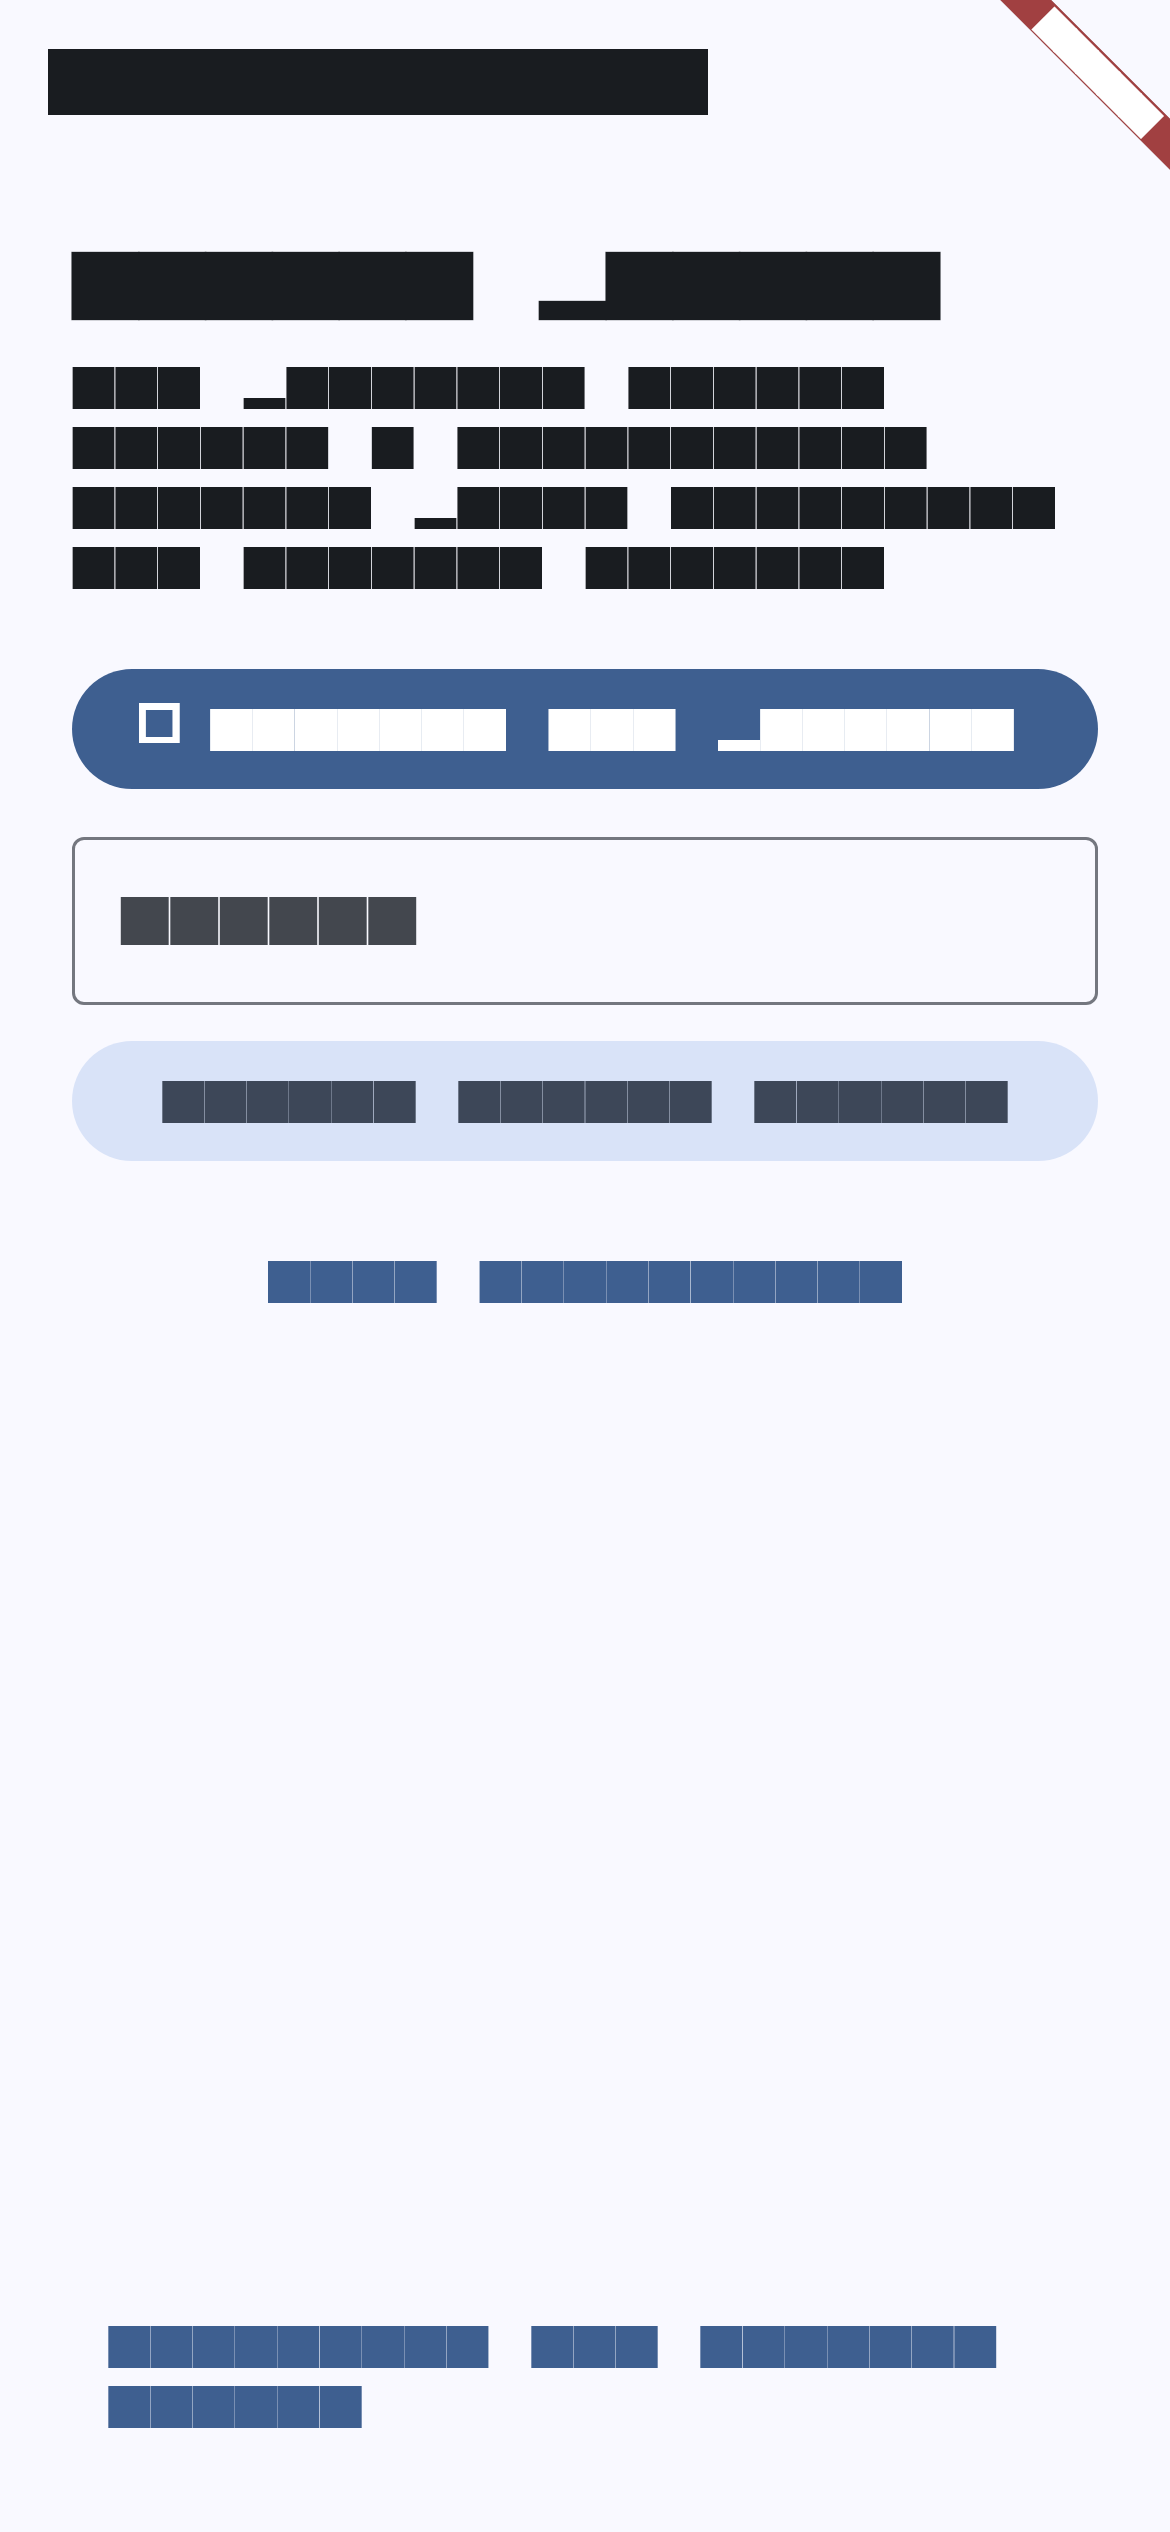
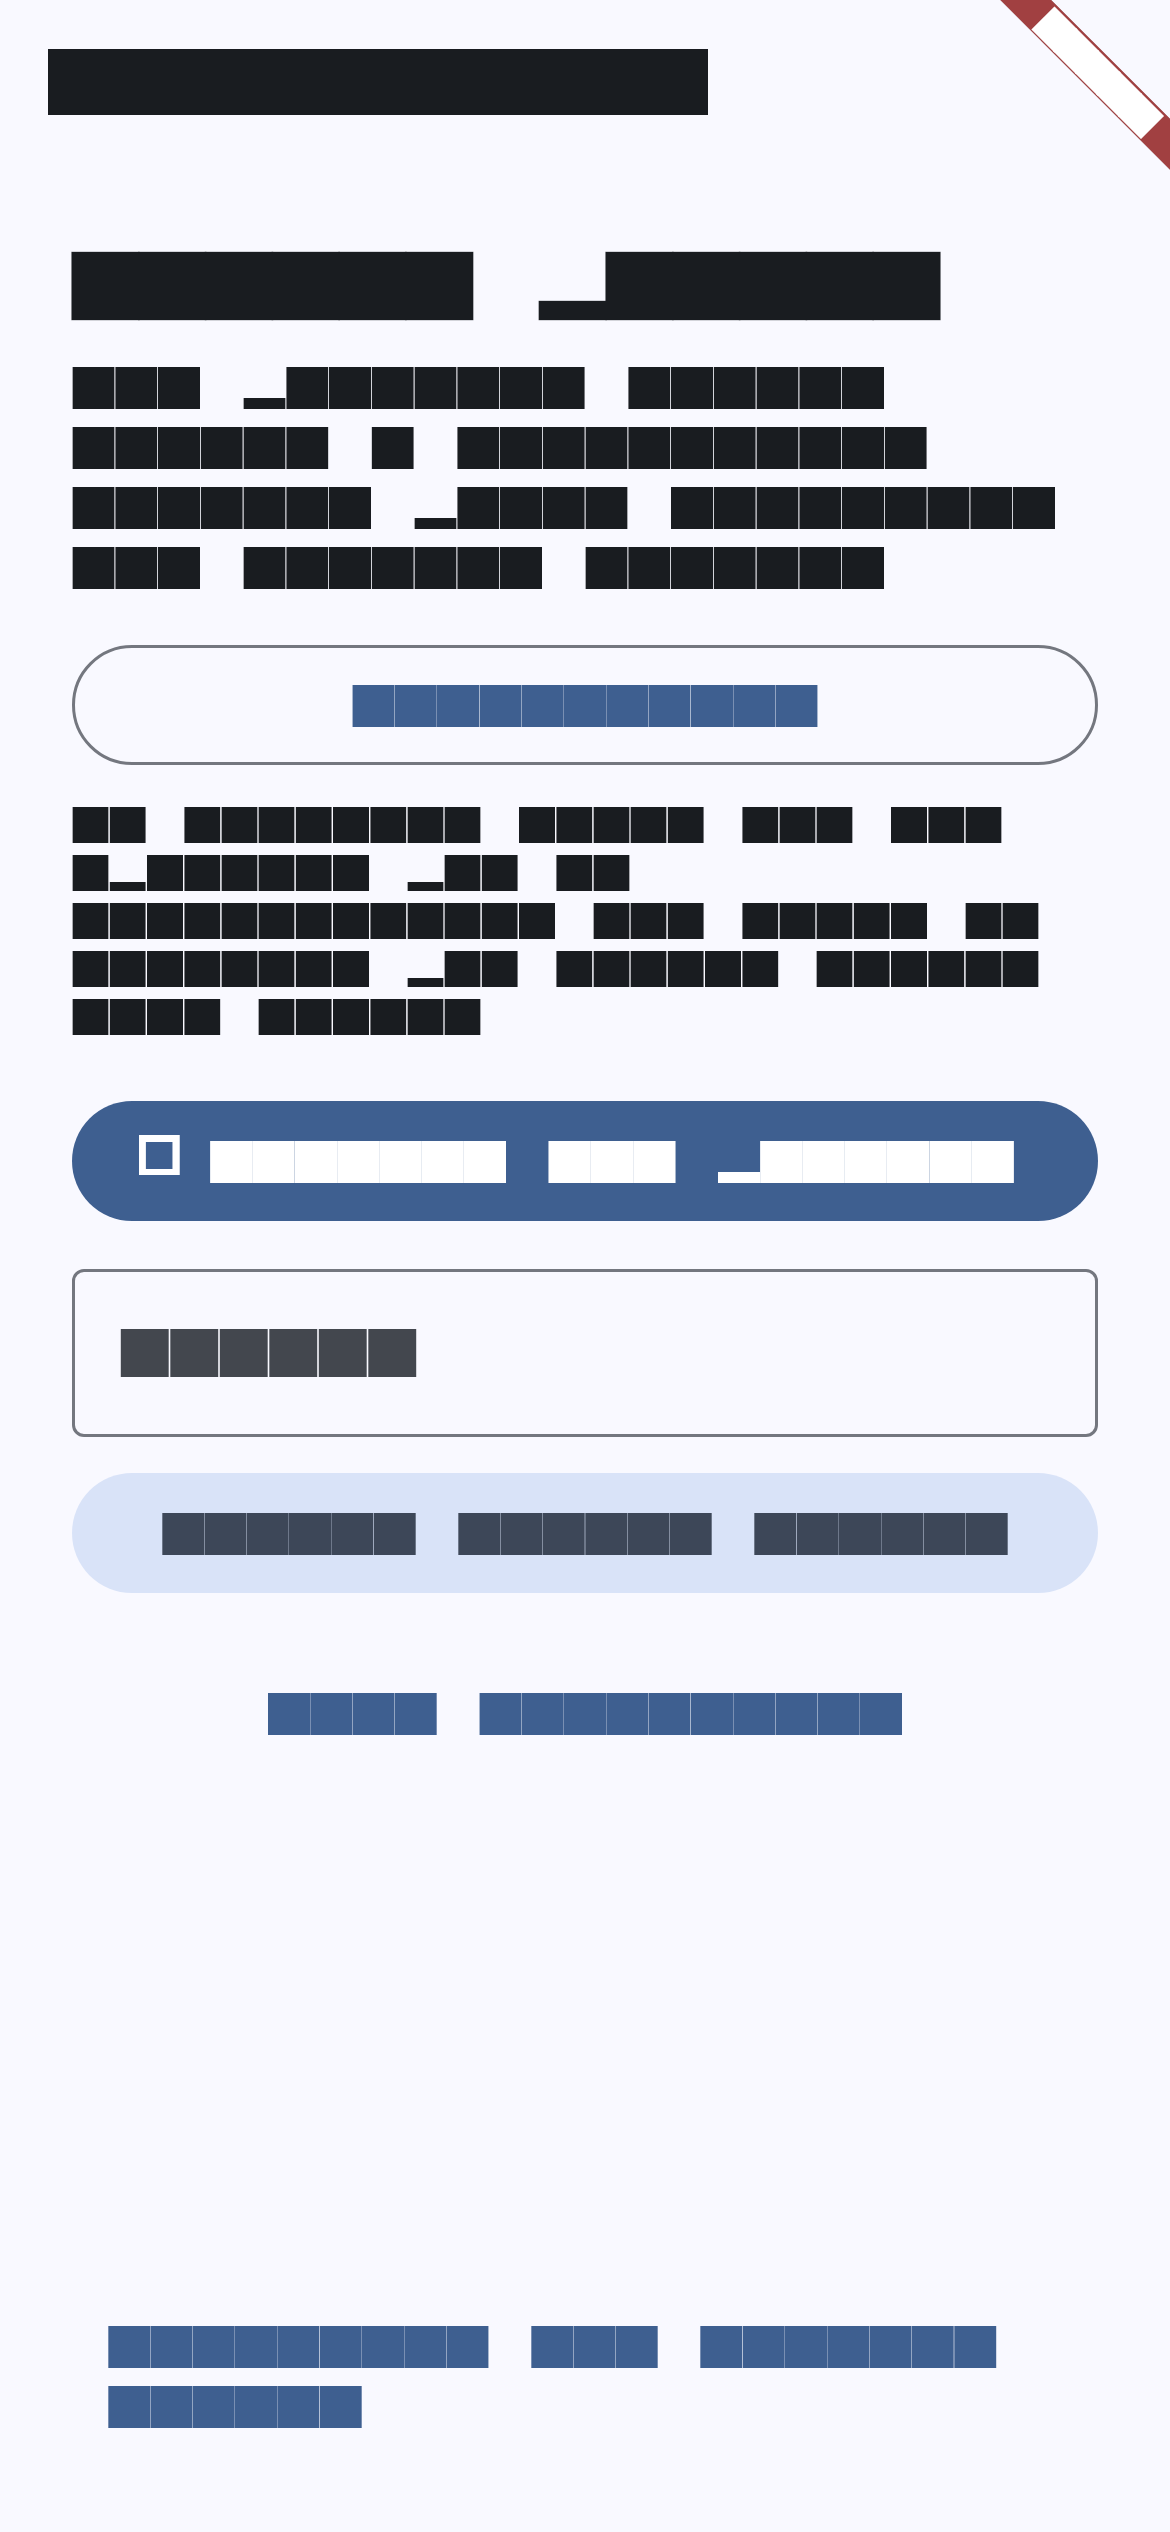
feat(login): open club web registration from sign-in screen
Add Registrarse/Register secondary action with admin-approval note,
url_launcher external browser, and ClubRegistrationUrl helper for
legacy club-register.html (switchable to /c/{slug}/register). Widget
and URL unit tests; refresh login goldens.

Changed region(s): [[0.0615, 0.2496, 0.9538, 0.6864]]

diff --git a/lib/screens/login_screen.dart b/lib/screens/login_screen.dart
@@ -1,10 +1,12 @@
 import 'package:flutter/material.dart';
+import 'package:url_launcher/url_launcher.dart';
 
 import '../api/flight_vis_client.dart';
 import '../l10n/pilot_l10n.dart';
 import '../services/app_repository.dart';
 import '../ci_test_keys.dart';
 import '../services/passkey_auth.dart';
+import '../util/club_registration_url.dart';
 
 class LoginScreen extends StatefulWidget {
   const LoginScreen({
@@ -119,6 +121,28 @@ class _LoginScreenState extends State<LoginScreen> {
     }
   }
 
+  Future<void> _openClubRegistration() async {
+    final l10n = context.pilotL10n;
+    setState(() {
+      _error = null;
+      _info = null;
+    });
+    widget.repo.refreshBaseUrl();
+    widget.repo.syncClubFromPrefs();
+    final slug = ClubRegistrationUrl.resolveClubSlug(
+      activeClubSlug: widget.repo.prefs.activeClubSlug(),
+      clientClubSlug: widget.repo.client.clubSlug,
+    );
+    final uri = ClubRegistrationUrl.build(
+      serverBaseUrl: widget.repo.prefs.baseUrl(),
+      clubSlug: slug,
+    );
+    final launched = await launchUrl(uri, mode: LaunchMode.externalApplication);
+    if (!launched && mounted) {
+      setState(() => _error = l10n.pilotRegisterOpenFailed);
+    }
+  }
+
   Future<void> _passwordLogin() async {
     setState(() {
       _busy = true;
@@ -159,7 +183,19 @@ class _LoginScreenState extends State<LoginScreen> {
             ),
             const SizedBox(height: 8),
             Text(l10n.pilotSignInIntro),
-            const SizedBox(height: 20),
+            const SizedBox(height: 12),
+            OutlinedButton(
+              key: FlightVisTestKeys.loginRegister,
+              onPressed: _busy ? null : _openClubRegistration,
+              child: Text(l10n.pilotRegisterButton),
+            ),
+            const SizedBox(height: 8),
+            Text(
+              l10n.pilotRegisterApprovalNote,
+              key: FlightVisTestKeys.loginRegisterNote,
+              style: Theme.of(context).textTheme.bodySmall,
+            ),
+            const SizedBox(height: 16),
             FilledButton.icon(
               onPressed: _busy ? null : _passkey,
               icon: const Icon(Icons.fingerprint),

diff --git a/test/login_screen_test.dart b/test/login_screen_test.dart
@@ -1,0 +1,60 @@
+import 'package:flutter/material.dart';
+import 'package:flutter_test/flutter_test.dart';
+
+import 'package:flight_vis/app_shell.dart';
+import 'package:flight_vis/ci_test_keys.dart';
+import 'package:flight_vis/screens/login_screen.dart';
+import 'package:flight_vis/api/flight_vis_client.dart';
+import 'package:flight_vis/services/app_repository.dart';
+import 'package:flight_vis/storage/preferences_store.dart';
+import 'package:flight_vis/storage/secure_store.dart';
+import 'package:shared_preferences/shared_preferences.dart';
+
+class _FakeSecure extends SecureStore {
+  @override
+  Future<String?> readDeviceToken() async => null;
+  @override
+  Future<String?> readSessionId() async => null;
+  @override
+  Future<void> writeDeviceToken(String token) async {}
+  @override
+  Future<void> clearDeviceToken() async {}
+  @override
+  Future<void> writeSessionId(String sessionId) async {}
+  @override
+  Future<void> clearSessionId() async {}
+  @override
+  Future<void> clearAll() async {}
+}
+
+void main() {
+  TestWidgetsFlutterBinding.ensureInitialized();
+
+  Future<AppRepository> mockRepo() async {
+    SharedPreferences.setMockInitialValues({});
+    final prefs = await PreferencesStore.open();
+    return AppRepository(
+      secure: _FakeSecure(),
+      prefs: prefs,
+      client: FlightVisClient(baseUrl: prefs.baseUrl()),
+    );
+  }
+
+  testWidgets('login shows register action and approval note', (tester) async {
+    final repo = await mockRepo();
+    await tester.pumpWidget(
+      PilotAppShell(
+        locale: const Locale('es', 'CL'),
+        home: LoginScreen(repo: repo, onLoggedIn: () {}),
+      ),
+    );
+    await tester.pumpAndSettle();
+    expect(find.byKey(FlightVisTestKeys.loginRegister), findsOneWidget);
+    expect(find.byKey(FlightVisTestKeys.loginRegisterNote), findsOneWidget);
+    expect(find.text('Registrarse'), findsOneWidget);
+    expect(
+      find.textContaining('aprobado por un administrador'),
+      findsOneWidget,
+    );
+  });
+}

diff --git a/lib/util/club_registration_url.dart b/lib/util/club_registration_url.dart
@@ -1,0 +1,33 @@
+import '../app_config.dart';
+
+/// Club-scoped web pilot registration (browser). Path may move when server PR #19 lands.
+abstract final class ClubRegistrationUrl {
+  static const defaultClubSlug = 'cas';
+
+  /// When `false`, use `/c/{slug}/register` instead of legacy `club-register.html`.
+  static const useLegacyHtmlPath = true;
+
+  static String resolveClubSlug({
+    String? activeClubSlug,
+    String? clientClubSlug,
+  }) {
+    for (final candidate in [activeClubSlug, clientClubSlug]) {
+      if (candidate != null && candidate.trim().isNotEmpty) {
+        return candidate.trim();
+      }
+    }
+    return defaultClubSlug;
+  }
+
+  static Uri build({
+    required String serverBaseUrl,
+    required String clubSlug,
+  }) {
+    final root = AppConfig.normalizeBaseUrl(serverBaseUrl);
+  final slug = Uri.encodeComponent(clubSlug);
+    if (useLegacyHtmlPath) {
+      return Uri.parse('$root/club-register.html?club=$slug');
+    }
+    return Uri.parse('$root/c/$slug/register');
+  }
+}

diff --git a/test/club_registration_url_test.dart b/test/club_registration_url_test.dart
@@ -1,0 +1,28 @@
+import 'package:flutter_test/flutter_test.dart';
+
+import 'package:flight_vis/util/club_registration_url.dart';
+
+void main() {
+  test('defaults club slug to cas', () {
+    expect(ClubRegistrationUrl.resolveClubSlug(), 'cas');
+  });
+
+  test('prefers active then client slug', () {
+    expect(
+      ClubRegistrationUrl.resolveClubSlug(activeClubSlug: 'demo', clientClubSlug: 'other'),
+      'demo',
+    );
+    expect(
+      ClubRegistrationUrl.resolveClubSlug(clientClubSlug: 'other'),
+      'other',
+    );
+  });
+
+  test('legacy registration URL uses club-register.html', () {
+    final uri = ClubRegistrationUrl.build(
+      serverBaseUrl: 'https://flight.heavenly.cl/',
+      clubSlug: 'cas',
+    );
+    expect(uri.toString(), 'https://flight.heavenly.cl/club-register.html?club=cas');
+  });
+}

diff --git a/lib/ci_test_keys.dart b/lib/ci_test_keys.dart
@@ -11,6 +11,8 @@ abstract final class FlightVisTestKeys {
   static const permissionsScreen = ValueKey<String>('flightvis_permissions');
   static const permissionsPrimary = ValueKey<String>('flightvis_permissions_primary');
   static const loginGuest = ValueKey<String>('flightvis_login_guest');
+  static const loginRegister = ValueKey<String>('flightvis_login_register');
+  static const loginRegisterNote = ValueKey<String>('flightvis_login_register_note');
   static const checkinContinue = ValueKey<String>('flightvis_checkin_continue');
   static const tailPicker = ValueKey<String>('flightvis_tail_picker');
   static const tailStart = ValueKey<String>('flightvis_tail_start');
